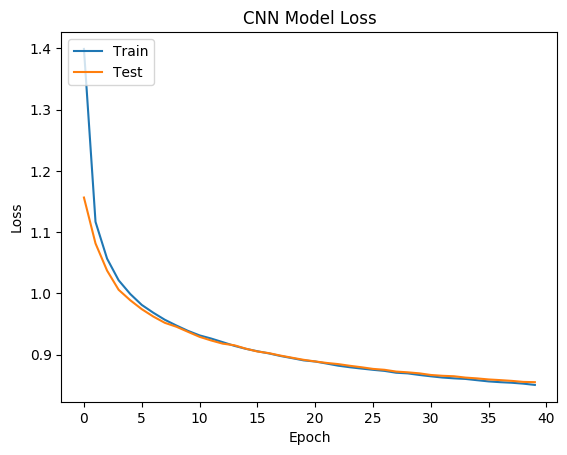
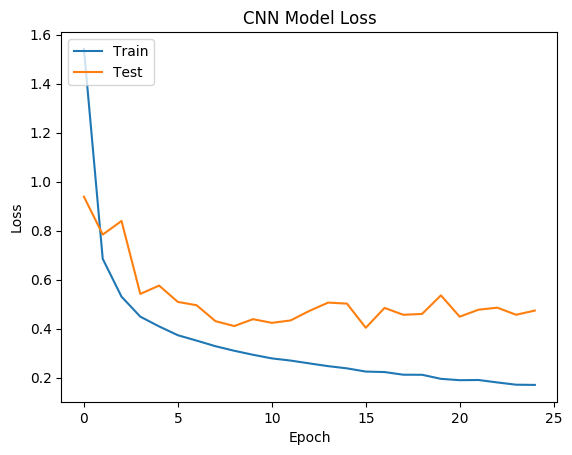
"Last-ditch" model with 94 train, 86 dev, haven't run a test set yet
Epoch 25/25
 - 122s - loss: 0.1709 - acc: 0.9451 - val_loss: 0.4741 - val_acc: 0.8667
4341 seconds to train the model = 1 hour 12 minutes

I included a png of the model in the commit for the first time.

The confusion matrix is the validation set, also for the first time. It
matches the last iteration of training, so the confusion matrix code is correct.
I don't understand why the validation set confusion matrix is so much
better than the test set, given that we're not picking a model based on
the validation set and indeed draw a new validation and test set each
time. Next thing to check is the code around loading the test set.

Layer (type)                 Output Shape              Param #
=================================================================
conv1d_1 (Conv1D)            (None, 5512, 40)          120
_________________________________________________________________
batch_normalization_1 (Batch (None, 5512, 40)          160
_________________________________________________________________
leaky_re_lu_1 (LeakyReLU)    (None, 5512, 40)          0
_________________________________________________________________
conv1d_2 (Conv1D)            (None, 2755, 50)          6000
_________________________________________________________________
batch_normalization_2 (Batch (None, 2755, 50)          200
_________________________________________________________________
leaky_re_lu_2 (LeakyReLU)    (None, 2755, 50)          0
[…]

diff --git a/train_cnn_on_waveform.py b/train_cnn_on_waveform.py
@@ -31,7 +31,7 @@ start_time = time.time()
 # These control how much data we use for train/dev We have 1047 minutes
 # available per speaker in the train/dev set on disk, so setting this number
 # higher than that is a no-op.
-MINUTES_PER_SPEAKER = 120
+MINUTES_PER_SPEAKER = 20
 # We have 20 speakers but can decrease this to train on just a subset.
 NUM_SPEAKERS = 20
 
@@ -85,12 +85,12 @@ assert train_dev_set.shape == (NUM_SAMPLES, HALF_SECOND_OF_SAMPLES, 1), train_de
 assert train_dev_labels.shape == (NUM_SAMPLES, NUM_SPEAKERS), train_dev_labels.shape
 
 # TODO(dgrogan): We'll need a proper test set.
-(test_set_inputs, test_set_labels) = generate_raw_dataset_from_mp3s_in_parallel(
-#        NUM_SPEAKERS, minutes_per_speaker=10, directory="top20_mp3")
-        NUM_SPEAKERS, minutes_per_speaker=10, directory="noisy_top_20")
-test_set_inputs = np.expand_dims(test_set_inputs, axis=-1)
-
-assert len(test_set_inputs.shape) == 3, test_set_inputs.shape
+#(test_set_inputs, test_set_labels) = generate_raw_dataset_from_mp3s_in_parallel(
+##        NUM_SPEAKERS, minutes_per_speaker=10, directory="top20_mp3")
+#        NUM_SPEAKERS, minutes_per_speaker=10, directory="noisy_top_20")
+#test_set_inputs = np.expand_dims(test_set_inputs, axis=-1)
+#
+#assert len(test_set_inputs.shape) == 3, test_set_inputs.shape
 
 # %%
 
@@ -126,26 +126,65 @@ at time t
 model = Sequential()
 model.add(layers.Conv1D(filters=40, kernel_size=3, strides=2,
                         activation=None, use_bias=False,
+                        kernel_initializer='he_normal',
                         input_shape=(X_train.shape[1], 1)))
 model.add(layers.BatchNormalization())
-model.add(layers.LeakyReLU(alpha=0.1))
-model.add(layers.Conv1D(filters=50, kernel_size=3, strides=2,
-                        activation=None, use_bias=False))
-model.add(layers.BatchNormalization())
-model.add(layers.LeakyReLU(alpha=0.1))
-model.add(layers.Conv1D(filters=60, kernel_size=3, strides=2, activation='relu'))
-model.add(layers.Conv1D(filters=60, kernel_size=3, strides=2, activation='relu'))
-model.add(layers.Conv1D(filters=60, kernel_size=3, strides=2, activation='relu'))
-model.add(keras.layers.MaxPooling1D(pool_size=2))
-model.add(layers.Conv1D(filters=80, kernel_size=3, strides=2, activation='relu'))
-model.add(layers.Conv1D(filters=80, kernel_size=3, strides=2, activation='relu'))
-model.add(layers.Conv1D(filters=90, kernel_size=3, strides=2, activation='relu'))
-model.add(layers.Conv1D(filters=100, kernel_size=3, strides=2, activation=None))
 model.add(layers.LeakyReLU(alpha=0.01))
+
+model.add(layers.Conv1D(filters=50, kernel_size=3, strides=2,
+                        activation=None, use_bias=False,
+                        kernel_initializer='he_normal'))
+model.add(layers.BatchNormalization())
+model.add(layers.LeakyReLU(alpha=0.01))
+
+model.add(layers.Conv1D(filters=60, kernel_size=3, strides=2,
+                        activation=None, use_bias=False,
+                        kernel_initializer='he_normal'))
+model.add(layers.BatchNormalization())
+model.add(layers.LeakyReLU(alpha=0.01))
+
+model.add(keras.layers.MaxPooling1D(pool_size=2))
+
+model.add(layers.Conv1D(filters=60, kernel_size=3, strides=2,
+                        activation=None, use_bias=False,
+                        kernel_initializer='he_normal'))
+model.add(layers.BatchNormalization())
+model.add(layers.LeakyReLU(alpha=0.01))
+
+model.add(layers.Conv1D(filters=60, kernel_size=3, strides=2,
+                        activation=None, use_bias=False,
+                        kernel_initializer='he_normal'))
+model.add(layers.BatchNormalization())
+model.add(layers.LeakyReLU(alpha=0.01))
+
+model.add(keras.layers.MaxPooling1D(pool_size=2))
+
+model.add(layers.Conv1D(filters=80, kernel_size=3, strides=2,
+                        activation=None, use_bias=False,
+                        kernel_initializer='he_normal'))
+model.add(layers.BatchNormalization())
+model.add(layers.LeakyReLU(alpha=0.01))
+
+model.add(keras.layers.MaxPooling1D(pool_size=2))
+
+model.add(layers.Conv1D(filters=100, kernel_size=3, strides=2,
+                        activation=None, use_bias=False,
+                        kernel_initializer='he_normal'))
+model.add(layers.BatchNormalization())
+model.add(layers.LeakyReLU(alpha=0.01))
+
+model.add(keras.layers.MaxPooling1D(pool_size=2))
+
 model.add(layers.Flatten())
+
+model.add(layers.Dense(40, activation=None, use_bias=False,
+                       kernel_initializer='he_normal'))
+model.add(layers.BatchNormalization())
+model.add(layers.LeakyReLU(alpha=0.01))
+
 model.add(layers.Dense(NUM_SPEAKERS, activation='softmax'))
 
-adam_optimizer = keras.optimizers.Adam(lr=0.001, decay=0.01)
+adam_optimizer = keras.optimizers.Adam(lr=0.001)
 model.compile(optimizer=adam_optimizer,
               loss='categorical_crossentropy',
               metrics=['accuracy'])
@@ -162,7 +201,7 @@ start_time = time.time()
 # But the CNN has input size 11025, so we have to reduce the batch_size or the
 # GPU runs out of memory.
 tensor_board = keras.callbacks.TensorBoard(histogram_freq=1)
-history_object = model.fit(X_train, y_train, epochs=40, batch_size=64,
+history_object = model.fit(X_train, y_train, epochs=25, batch_size=64,
                            verbose=2,
                            callbacks=[tensor_board],
                            shuffle=True,
@@ -171,7 +210,8 @@ print("%d seconds to train the model" % (time.time() - start_time))
 
 model.save("cnn_model.h5")
 
-generate_confusion_matrix(model, test_set_inputs, test_set_labels)
+#generate_confusion_matrix(model, test_set_inputs, test_set_labels)
+generate_confusion_matrix(model, X_dev, y_dev)
 
 # %%
 # Plot training & validation accuracy values
